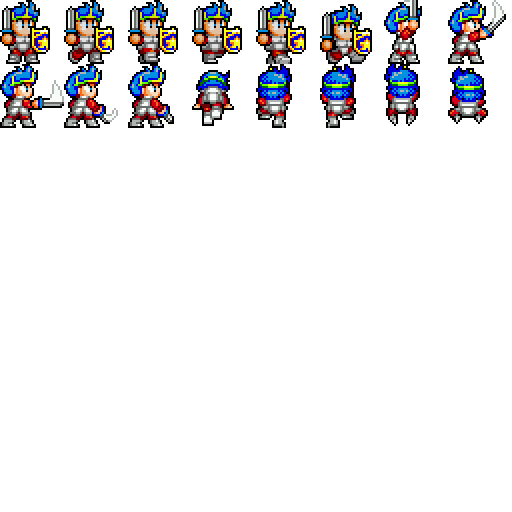
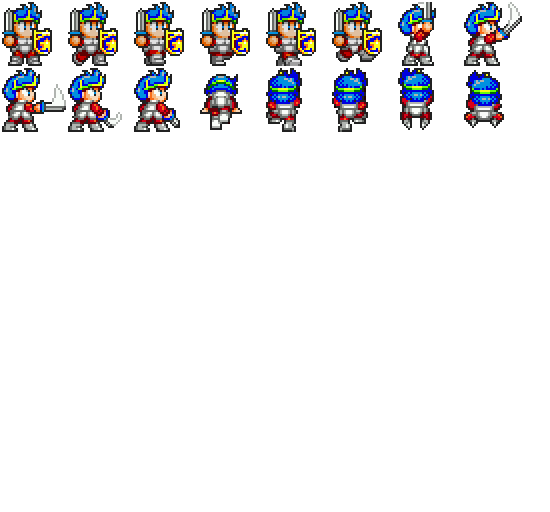
Updated character spritesheet to remove artifacts.

Changed region(s): [[0.0, 0.0, 1.0, 0.2812]]

diff --git a/src/preloader.ts b/src/preloader.ts
@@ -11,7 +11,7 @@ module PhaserGame {
             this.load.image('titlepage', 'assets/titlepage.jpg');
             this.load.image('logo', 'assets/logo.png');
             this.load.audio('music', 'assets/title.mp3', true);
-            this.load.spritesheet('simon', 'assets/character.png', 64, 64, 13);
+            this.load.spritesheet('simon', 'assets/character.png', 66, 66, 13, 1);
         }
          
         create() {
